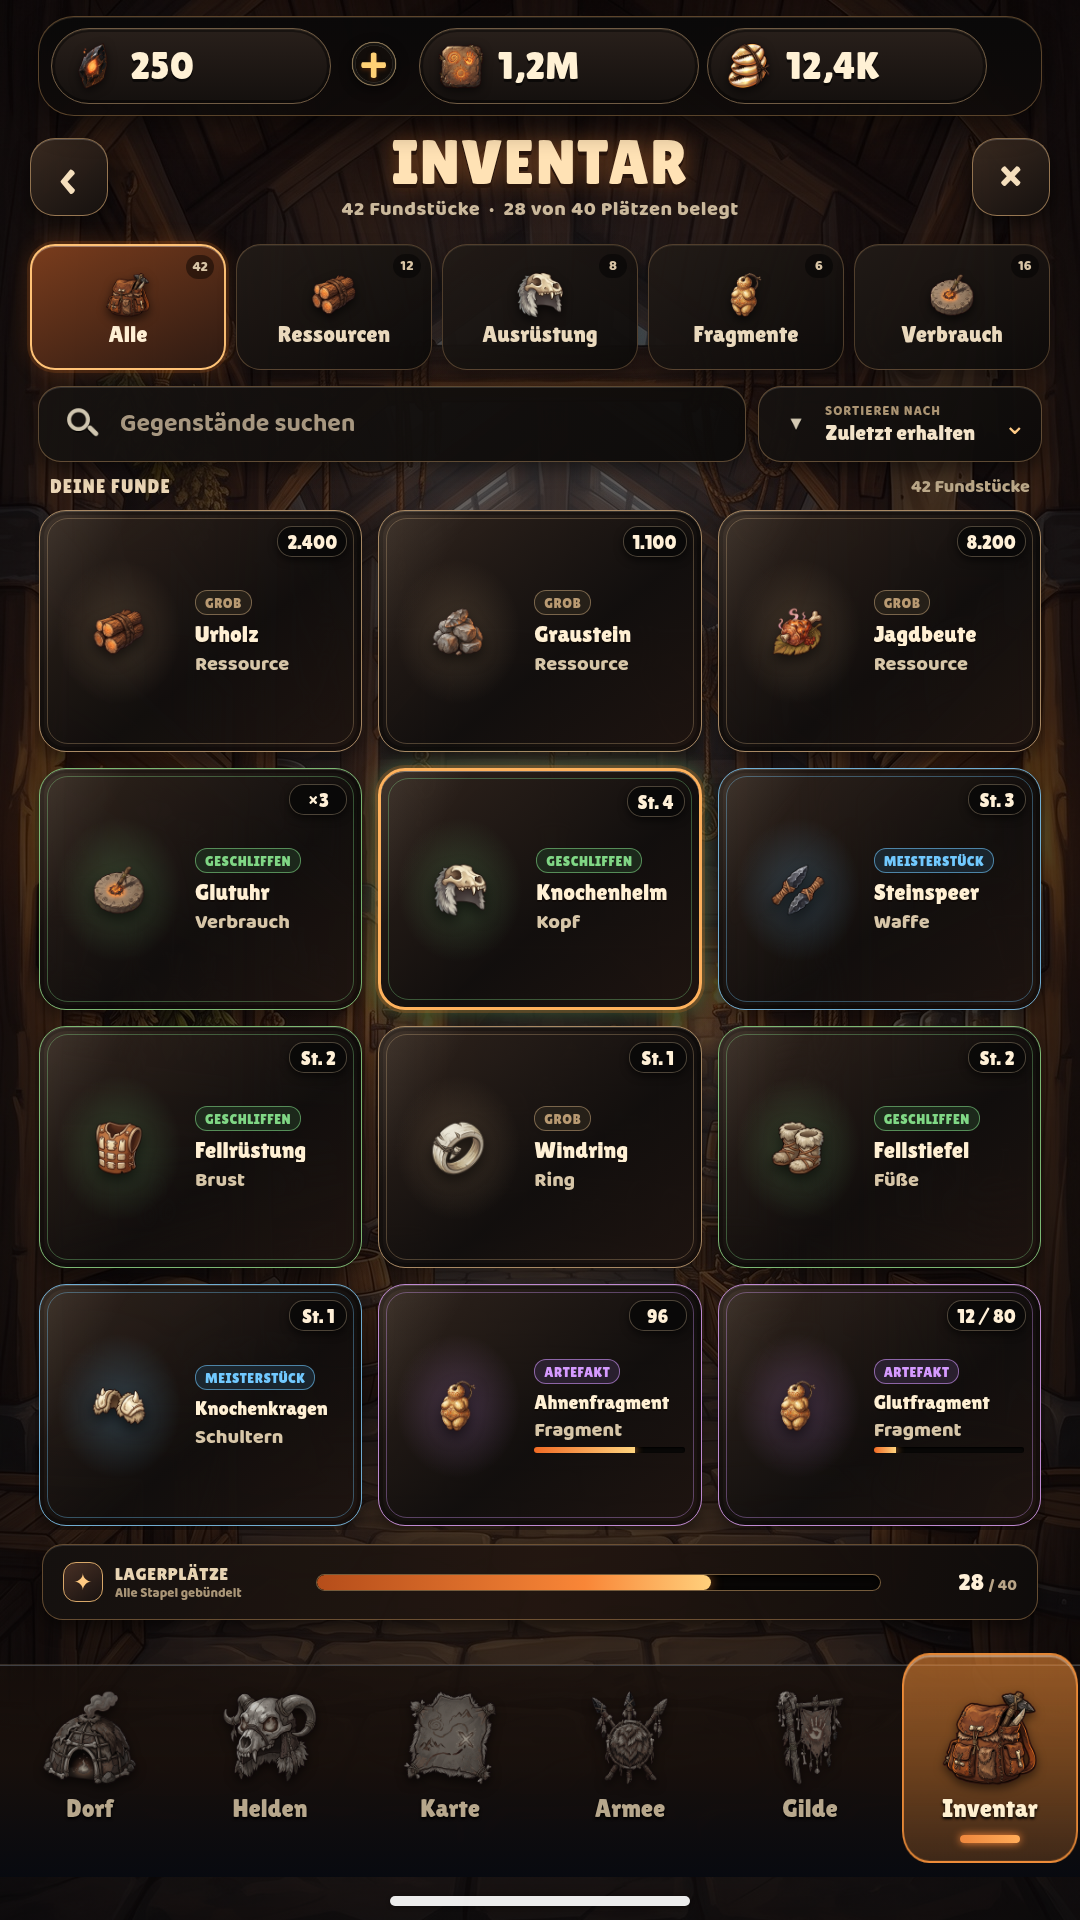
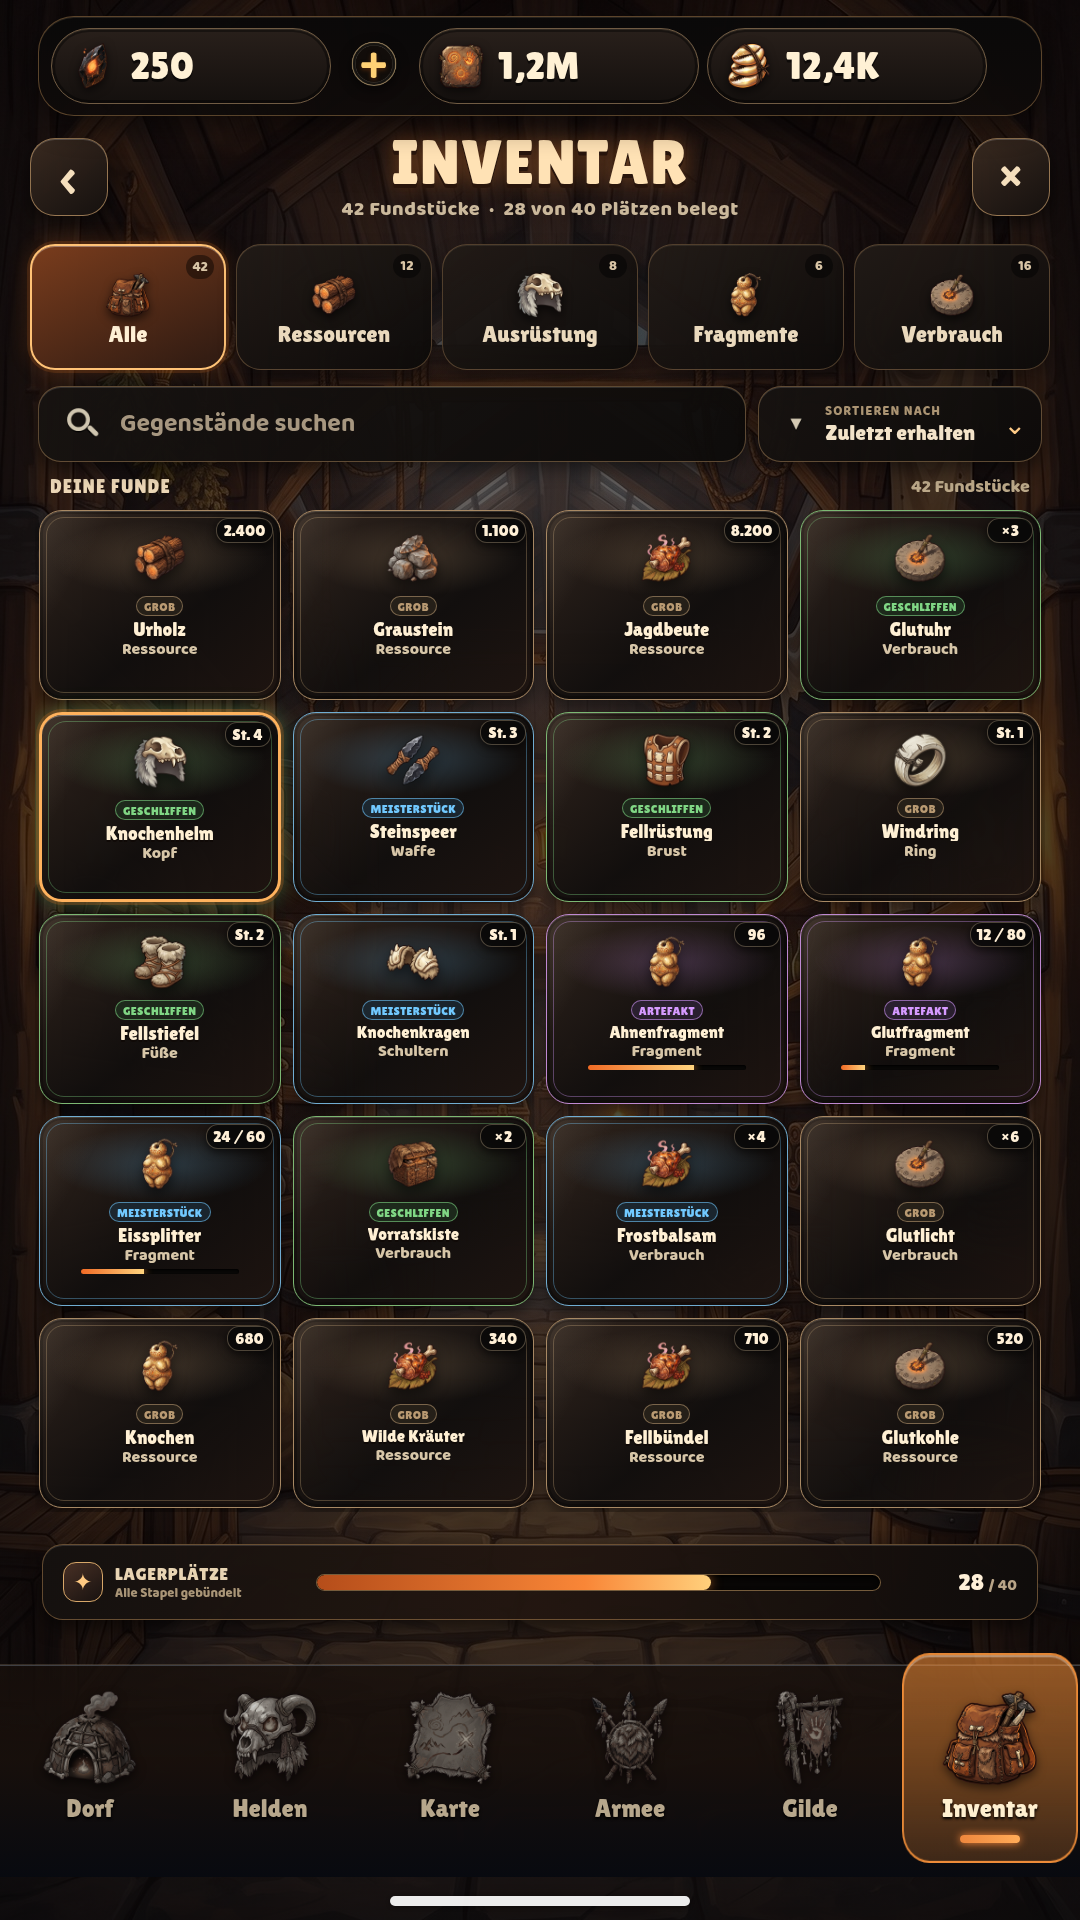
Compact inventory item cards for v4d

diff --git a/team/art/ui-kit/menus_v3/_src/html/v3_2_obsidian_inventar_v4_interaktiv.html b/team/art/ui-kit/menus_v3/_src/html/v3_2_obsidian_inventar_v4_interaktiv.html
@@ -52,21 +52,21 @@ button{cursor:pointer}
 .grid-head{position:absolute;z-index:8;left:50px;top:474px;width:980px;height:25px;display:flex;align-items:center;justify-content:space-between;color:#ebd6b6}
 .grid-head strong{font:19px/1 Lilita;letter-spacing:1.1px}
 .grid-head span{font:18px/1 Baloo;color:#bba889;font-weight:800}
-.collection{position:absolute;z-index:7;left:35px;top:510px;width:1010px;height:1020px;display:grid;grid-template-columns:repeat(3,1fr);grid-auto-rows:242px;gap:16px;overflow-y:auto;scrollbar-width:none;padding:0 4px 4px}
+.collection{position:absolute;z-index:7;left:35px;top:510px;width:1010px;height:1002px;display:grid;grid-template-columns:repeat(4,1fr);grid-auto-rows:190px;gap:12px;overflow-y:auto;scrollbar-width:none;padding:0 4px 4px}
 .collection::-webkit-scrollbar{display:none}
-.item-card{position:relative;overflow:hidden;height:242px;padding:12px 16px 10px;border:1.5px solid color-mix(in srgb,var(--grade) 78%,#6c4b31);border-radius:27px;background:linear-gradient(142deg,rgba(48,36,29,.97),rgba(17,14,13,.98) 58%,rgba(30,20,16,.98));box-shadow:0 9px 18px rgba(0,0,0,.44),inset 0 1px 0 rgba(255,245,225,.15),inset 0 0 0 4px rgba(0,0,0,.24);display:grid;grid-template-columns:134px 1fr;align-items:center;text-align:left;transition:transform .16s,box-shadow .16s,border-color .16s}
-.item-card:before{content:"";position:absolute;inset:7px;border:1px solid color-mix(in srgb,var(--grade) 36%,transparent);border-radius:21px;pointer-events:none}
+.item-card{position:relative;overflow:hidden;height:190px;padding:9px 10px 8px;border:1.5px solid color-mix(in srgb,var(--grade) 78%,#6c4b31);border-radius:23px;background:linear-gradient(142deg,rgba(48,36,29,.97),rgba(17,14,13,.98) 58%,rgba(30,20,16,.98));box-shadow:0 7px 14px rgba(0,0,0,.4),inset 0 1px 0 rgba(255,245,225,.15),inset 0 0 0 3px rgba(0,0,0,.24);display:grid;grid-template-columns:1fr;grid-template-rows:76px 1fr;align-items:center;text-align:center;transition:transform .16s,box-shadow .16s,border-color .16s}
+.item-card:before{content:"";position:absolute;inset:6px;border:1px solid color-mix(in srgb,var(--grade) 36%,transparent);border-radius:18px;pointer-events:none}
 .item-card:after{content:"";position:absolute;inset:-45% -30%;background:linear-gradient(120deg,transparent 39%,rgba(255,245,218,.075) 49%,transparent 59%);transform:translateX(-40%);pointer-events:none}
 .item-card.selected{border:3px solid #ffb25d;box-shadow:0 0 0 3px rgba(255,126,33,.2),0 0 22px color-mix(in srgb,var(--grade) 45%,transparent),0 10px 22px #0009,inset 0 1px 0 #fff5}
-.item-art{position:relative;width:126px;height:146px;display:grid;place-items:center;border-radius:22px;background:radial-gradient(ellipse, color-mix(in srgb,var(--grade) 22%,transparent),transparent 70%)}
+.item-art{position:relative;width:100%;height:76px;display:grid;place-items:center;border-radius:18px;background:radial-gradient(ellipse, color-mix(in srgb,var(--grade) 22%,transparent),transparent 70%)}
 .item-art img{width:60px;height:60px;object-fit:contain;filter:drop-shadow(0 6px 7px #0009)}
-.item-copy{position:relative;z-index:2;display:flex;flex-direction:column;align-items:flex-start;justify-content:center;min-width:0;height:100%;padding-left:5px}
-.grade{display:inline-flex;align-items:center;min-height:25px;padding:3px 9px 2px;border:1px solid color-mix(in srgb,var(--grade) 58%,transparent);border-radius:12px;background:color-mix(in srgb,var(--grade) 15%,rgba(8,7,7,.72));color:var(--grade);font:14px/1 Lilita;letter-spacing:.45px;white-space:nowrap;text-transform:uppercase}
-.item-name{display:block;max-width:100%;margin-top:8px;color:#fff0d4;font:23px/1.02 Lilita;text-shadow:0 2px 0 #100a07;white-space:nowrap;overflow:hidden;text-overflow:ellipsis}
-.item-name.long{font-size:20px}
-.item-count{display:block;margin-top:8px;color:#d7c6a8;font:20px/1 Baloo;font-weight:800;white-space:nowrap}
-.stack-pill{position:absolute;z-index:3;top:15px;right:14px;min-width:58px;padding:6px 9px 4px;border:1px solid rgba(255,226,184,.28);border-radius:15px;background:rgba(7,6,6,.78);color:#fff0d7;font:19px/1 Lilita;text-align:center;box-shadow:0 3px 8px #0009}
-.mini-progress{width:100%;height:6px;margin-top:7px;border-radius:6px;background:#080706;overflow:hidden;box-shadow:inset 0 1px 2px #000}
+.item-copy{position:relative;z-index:2;display:flex;flex-direction:column;align-items:center;justify-content:flex-start;min-width:0;height:100%;padding:0}
+.grade{display:inline-flex;align-items:center;min-height:20px;padding:2px 7px 1px;border:1px solid color-mix(in srgb,var(--grade) 58%,transparent);border-radius:10px;background:color-mix(in srgb,var(--grade) 15%,rgba(8,7,7,.72));color:var(--grade);font:12px/1 Lilita;letter-spacing:.35px;white-space:nowrap;text-transform:uppercase}
+.item-name{display:block;max-width:100%;margin-top:4px;color:#fff0d4;font:19px/1 Lilita;text-shadow:0 2px 0 #100a07;white-space:nowrap;overflow:hidden;text-overflow:ellipsis}
+.item-name.long{font-size:17px}
+.item-count{display:block;margin-top:3px;color:#d7c6a8;font:16px/1 Baloo;font-weight:800;white-space:nowrap}
+.stack-pill{position:absolute;z-index:3;top:7px;right:7px;min-width:46px;padding:4px 6px 3px;border:1px solid rgba(255,226,184,.28);border-radius:12px;background:rgba(7,6,6,.78);color:#fff0d7;font:16px/1 Lilita;text-align:center;box-shadow:0 3px 8px #0009}
+.mini-progress{width:72%;height:5px;margin-top:5px;border-radius:6px;background:#080706;overflow:hidden;box-shadow:inset 0 1px 2px #000}
 .mini-progress i{display:block;height:100%;background:linear-gradient(90deg,#f16b25,#ffd47e);box-shadow:0 0 8px #ff9a3d}
 .capacity{position:absolute;z-index:8;left:42px;top:1544px;width:996px;height:76px;padding:9px 20px;display:grid;grid-template-columns:235px 1fr 118px;align-items:center;gap:18px;border:1px solid rgba(214,162,101,.42);border-radius:21px;background:linear-gradient(100deg,rgba(21,17,15,.98),rgba(34,22,16,.96),rgba(15,12,11,.98));box-shadow:0 8px 17px #0008,inset 0 1px 0 #fff2}
 .capacity-label{display:flex;align-items:center;gap:12px}

diff --git a/team/art/hud_d2/_src/render_vorschau_menu_inventar_d2_v4.py b/team/art/hud_d2/_src/render_vorschau_menu_inventar_d2_v4.py
@@ -1,5 +1,5 @@
 #!/usr/bin/env python3
-"""Rendere die drei Inventar-v4c-Keyframes aus dem interaktiven HTML."""
+"""Rendere die drei Inventar-v4d-Keyframes aus dem interaktiven HTML."""
 from __future__ import annotations
 
 import shutil

diff --git a/team/art/hud_d2/massplan_menu_inventar_d2_v4.md b/team/art/hud_d2/massplan_menu_inventar_d2_v4.md
@@ -8,12 +8,12 @@ Leinwand: **1080 × 1920 px**, Hochformat. Das UI nutzt feste Pixelmaße wie der
 | Kopf | x30, y126 · 1020 × 102 | Zurück, Inventar, Schließen; Belegung 28/40 |
 | Kategorien | x30, y244 · 1020 × 126 | fünf gleich große Tabs mit Symbol und Anzahl |
 | Suche / Sortierung | x38, y386 · 1004 × 76 | Suche 708 px, Sortierung 284 px |
-| Kartenraster | x35, y510 · 1010 × 1020 | drei Spalten, Karten 242 px hoch, vier Reihen sichtbar, vertikal scrollbar; Icons 60 px im 126 × 146 px Bildfeld |
+| Kartenraster | x35, y510 · 1010 × 1002 | vier Spalten, Karten 242 × 190 px, fünf Reihen sichtbar, vertikal scrollbar; Icons 60 px |
 | Kapazität | x42, y1544 · 996 × 76 | Belegung 28/40, Glut-Füllstand 70 % |
 | Übersicht | — | Tabs, Suche, Sortierung, Raster und Kapazität; keine feststehende Detailfläche |
 | Detailsheet (modal) | x38, y688 · 1004 × 946 | nur nach Tipp auf Gegenstand; großes Itembild, Werte und typabhängige Aktion; X, Zurück, Außentipp oder Escape schließt |
 | Dock A | x0, y1664 · 1080 × 256 | sechs Bereiche, Inventar aktiv, Home-Leiste |
 
-Seltenheitsrahmen unterscheiden **Grob**, **Geschliffen**, **Meisterstück** und **Artefakt** über Farbe, Innenlinie und Lichtsaum. Das Rasterbild nimmt im Bildfeld rund **48 %** der Breite ein. Ausrüstung zeigt **Anlegen**, Ressourcen und Verbrauchsgüter **Verwenden**; Fragmente zeigen Sammelfortschritt ohne Aktionsknopf. Der Hallen-Hintergrund wird auf 1080 × 1920 beschnitten und leicht in den Schatten angehoben; ein dunkler Scrim mit mindestens **65 %** Deckung und zwei weiche Vignettenebenen halten ihn zurück. Gemessener Randmittelwert (je 20 px außen, y100–1663): **15,4**, Beschwören v16: **18,4**, Differenz **3,0**.
+Seltenheitsrahmen unterscheiden **Grob**, **Geschliffen**, **Meisterstück** und **Artefakt** über Farbe, Innenlinie und Lichtsaum. Die kompakteren Karten zeigen Gegenstandsbild, Seltenheit, Namen und Typ. Ausrüstung zeigt **Anlegen**, Ressourcen und Verbrauchsgüter **Verwenden**; Fragmente zeigen Sammelfortschritt ohne Aktionsknopf. Der Hallen-Hintergrund wird auf 1080 × 1920 beschnitten und leicht in den Schatten angehoben; ein dunkler Scrim mit mindestens **65 %** Deckung und zwei weiche Vignettenebenen halten ihn zurück. Gemessener Randmittelwert (je 20 px außen, y100–1663): **15,4**, Beschwören v16: **18,4**, Differenz **3,0**.
 
 Die PNG-Keyframes zeigen Alle mit ausgewähltem Knochenhelm, Ausrüstung sowie das geöffnete Detailsheet. Suchfeld, Sortierknopf, Tabs, Kartenklick und Sheet-Schließen arbeiten im HTML-Mock.

diff --git a/team/art/hud_d2/BERICHT_inventar_komplett_neu_v4d_2026-10-23.md b/team/art/hud_d2/BERICHT_inventar_komplett_neu_v4d_2026-10-23.md
@@ -1,0 +1,20 @@
+# Inventar v4d · Kurzbericht
+
+## Änderung
+
+- Das Raster zeigt jetzt vier Spalten mit Karten von **242 × 190 px**. Fünf Reihen, also **20 Gegenstände**, sind gleichzeitig sichtbar.
+- Die Karteninhalte sind kompakter angeordnet; Übersicht und modales Detailsheet-Verhalten bleiben erhalten.
+- Das Detailsheet samt **ANLEGEN**/**VERWENDEN**-Aktionen wurde unverändert gelassen.
+- Alle-, Ausrüstung- und Detailsheet-Keyframes wurden neu gerendert.
+
+## Prüfung
+
+- Alle drei PNGs geprüft: **1080 × 1920 px**.
+- Sichtprüfung bestätigt kleinere Karten und fünf sichtbare Reihen; Detailsheet unverändert.
+- `git diff --check` sauber.
+
+## Kosten
+
+- **0 $ Bildgenerierung.** Vorhandene D2-Grafiken wiederverwendet.
+
+DONE · 2026-10-23 20:59:19 CEST (Europe/Berlin)
